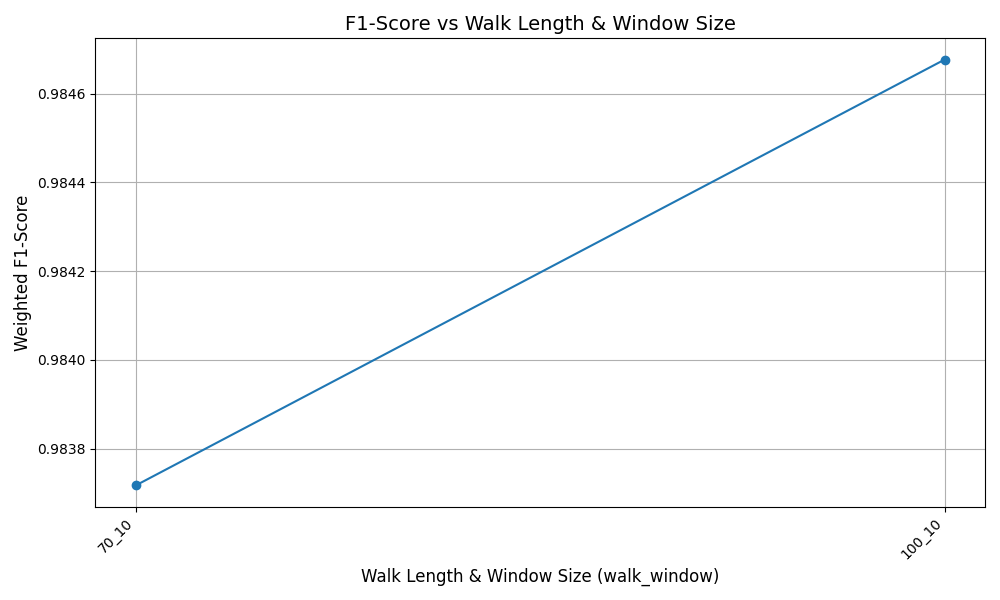
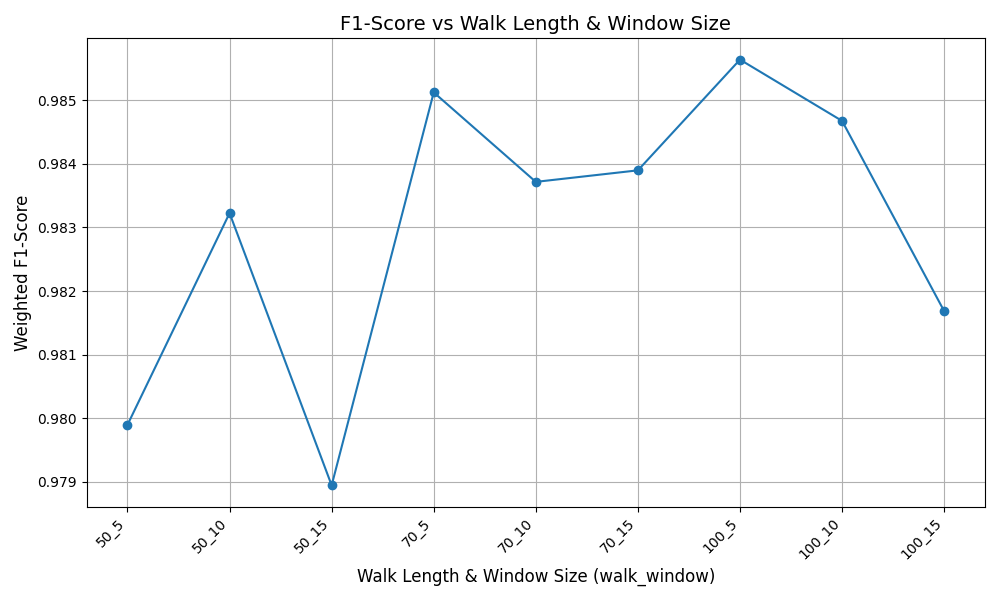
feat: SVC result & track time

diff --git a/evaluation/svm_prediction.py b/evaluation/svm_prediction.py
@@ -3,7 +3,8 @@ import pandas as pd
 import matplotlib.pyplot as plt
 from sklearn.model_selection import train_test_split
 from sklearn.svm import SVC
-from sklearn.metrics import accuracy_score, f1_score, classification_report
+from sklearn.metrics import f1_score, classification_report, confusion_matrix
+from time import perf_counter
 
 # Limit CPU usage for parallel processing
 os.environ["LOKY_MAX_CPU_COUNT"] = "8"
@@ -16,6 +17,8 @@ def process_and_evaluate_node_embeddings(node_embedding_files, output_dir='./res
     
     for file in node_embedding_files:
         print(f"Processing {file}...")
+        t_start = perf_counter()
+
         # Load node embeddings and household fragile level
         node_embeddings = pd.read_excel(file)
         hh_fg_level = pd.read_excel('../data/dataset/edge/hh-fg_level.xlsx', header=None, names=['id', 'fg_level'])
@@ -72,7 +75,22 @@ def process_and_evaluate_node_embeddings(node_embedding_files, output_dir='./res
         output_file = os.path.join(output_dir, f"classification_report_{walk_length}_{window_size}.xlsx")
         results_df.to_excel(output_file, index=True)
 
-        print(f"Classification report saved to {output_file}")
+        # Generate a confusion matrix
+        conf_matrix = confusion_matrix(y_test, y_pred)
+        conf_matrix_df = pd.DataFrame(
+            conf_matrix, 
+            index=[f"Actual {label}" for label in sorted(y.unique())],
+            columns=[f"Predicted {label}" for label in sorted(y.unique())]
+        )
+
+        # Combine the classification report and confusion matrix
+        with pd.ExcelWriter(os.path.join(output_dir, f"classification_report_{walk_length}_{window_size}.xlsx")) as writer:
+            results_df.to_excel(writer, sheet_name='Classification Report', index=True)
+            conf_matrix_df.to_excel(writer, sheet_name='Confusion Matrix', index=True)
+
+        t_stop = perf_counter()
+        print("Elapsed time in seconds:", t_stop-t_start)
+        print(f"Classification report and confusion matrix saved to {output_file}")
         
         results.append({'walk_length': walk_length, 'window_size': window_size, 'f1_score': f1})
 
@@ -98,15 +116,15 @@ def plot_results(results, output_dir):
 
 # List of node embedding files
 node_embedding_files = [
-    '../main/result/node_embeddings_50_5.xlsx',
-    '../main/result/node_embeddings_50_10.xlsx',
-    '../main/result/node_embeddings_50_15.xlsx',
-    '../main/result/node_embeddings_70_5.xlsx',
-    '../main/result/node_embeddings_70_10.xlsx',
-    '../main/result/node_embeddings_70_15.xlsx',
-    '../main/result/node_embeddings_100_5.xlsx',
-    '../main/result/node_embeddings_100_10.xlsx',
-    '../main/result/node_embeddings_100_15.xlsx'
+    '../main/result/node_embeddings_50_5_128.xlsx',
+    '../main/result/node_embeddings_50_10_128.xlsx',
+    '../main/result/node_embeddings_50_15_128.xlsx',
+    '../main/result/node_embeddings_70_5_128.xlsx',
+    '../main/result/node_embeddings_70_10_128.xlsx',
+    '../main/result/node_embeddings_70_15_128.xlsx',
+    '../main/result/node_embeddings_100_5_128.xlsx',
+    '../main/result/node_embeddings_100_10_128.xlsx',
+    '../main/result/node_embeddings_100_15_128.xlsx'
 ]
 
 # Run the function
